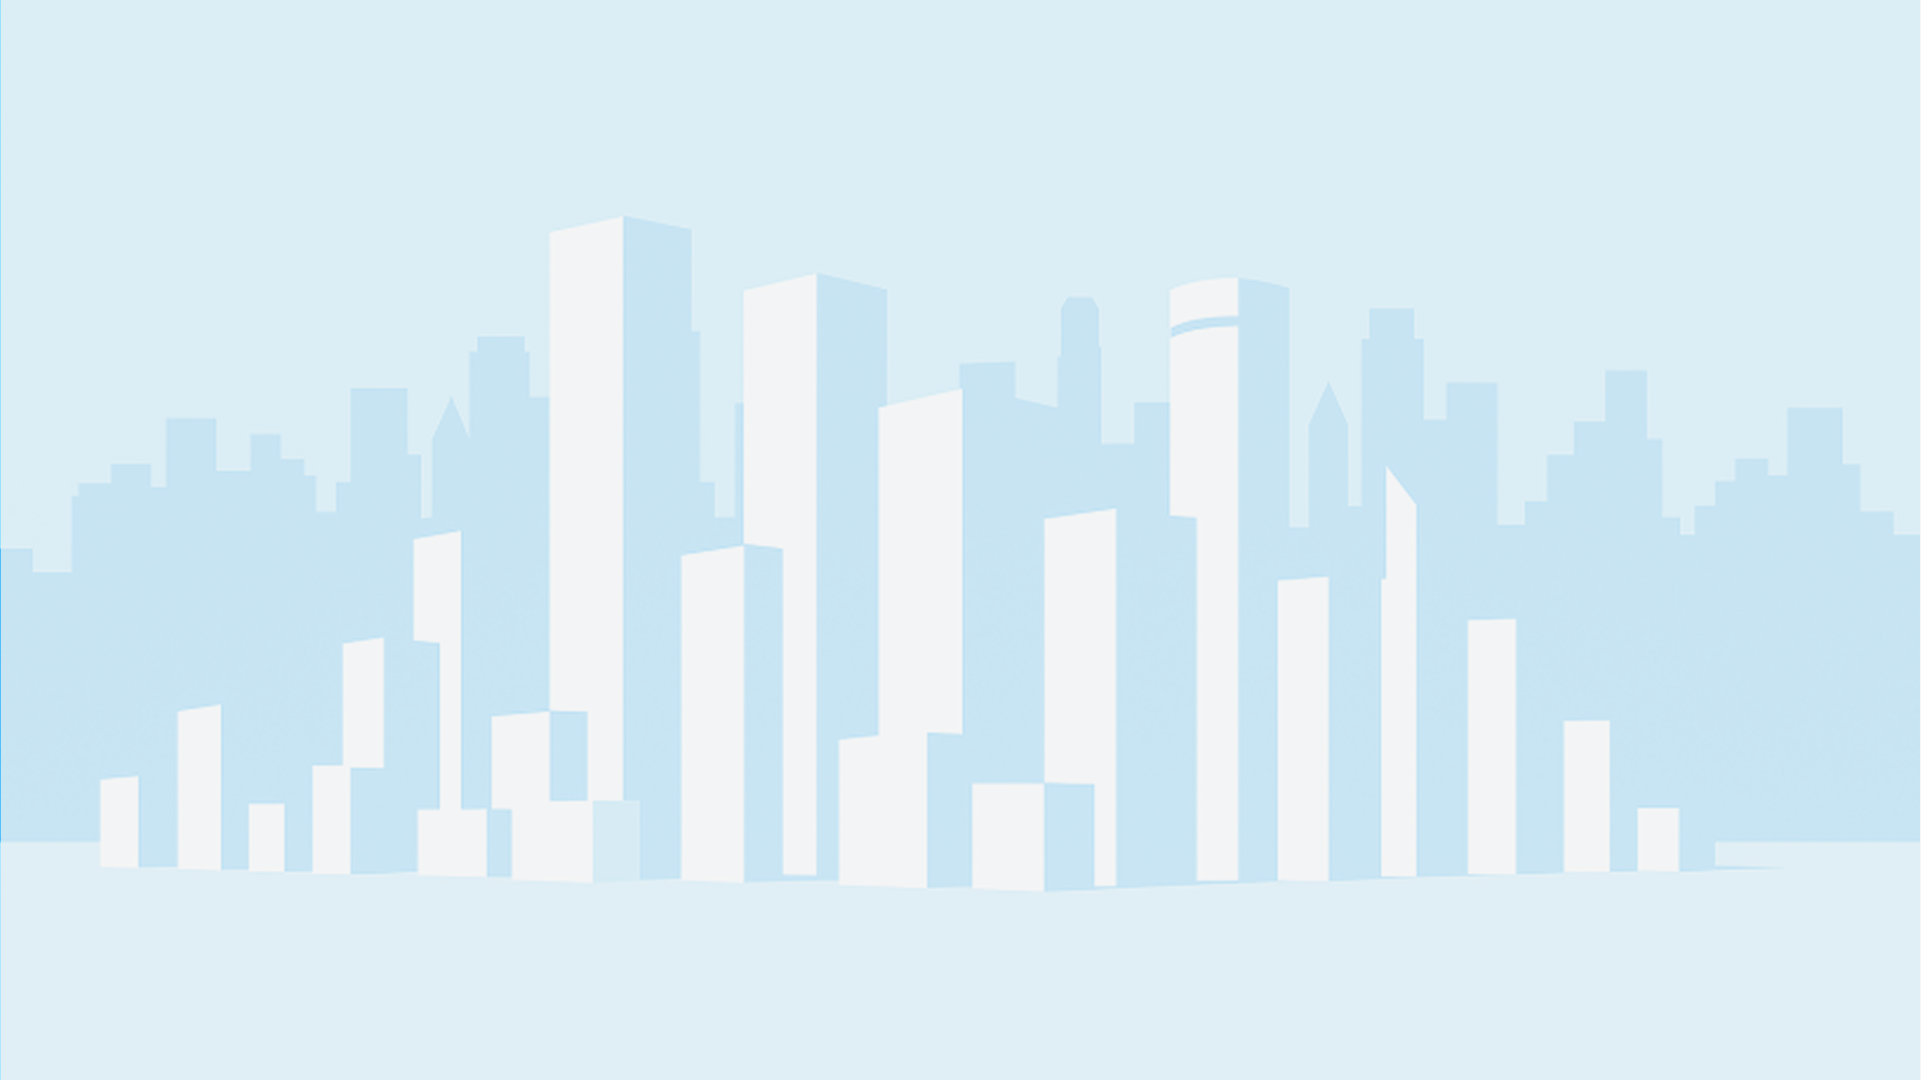
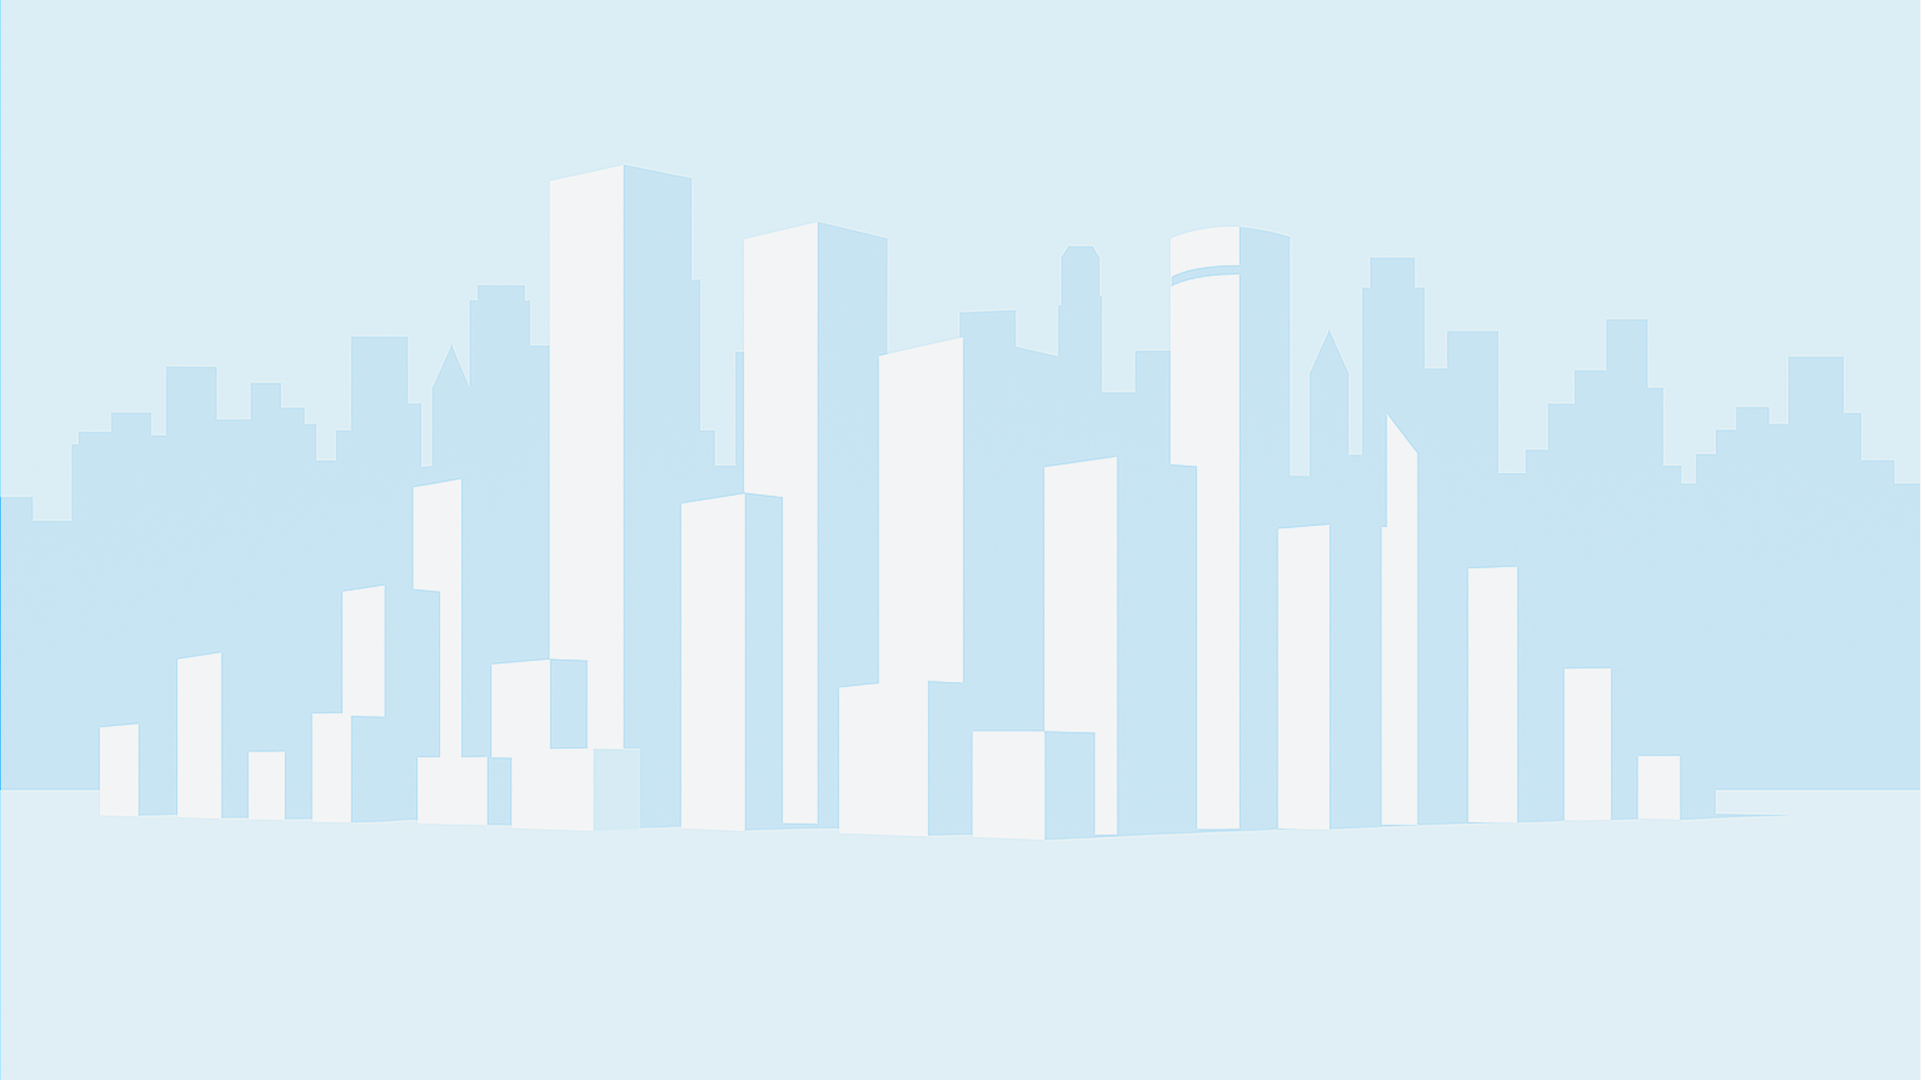
feat : TopMenu랑 배경화면 추가

diff --git a/src/components/admin/Menu.jsx b/src/components/admin/Menu.jsx
@@ -11,12 +11,12 @@ export default function Menu(){
 
     return(
         <>
-            <div className='wrap flex'>
+            <div className='wrap flex w-[450px]'>
                 {/* 메뉴박스 */}
-                <div className={`whiteBox w-[372px] h-full bg-white transition-transform duration-300
-                    ${open ? "translate-x-0" : "-translate-x-full"}`}>
+                <div className={`whiteBox w-[372px] h-full bg-white transition-transform duration-500
+                    ${open ? "translate-x-0" : "-translate-x-full"} `}>
                     <img src={logo} alt="메뉴로고" 
-                        className='w-[216px] h-[84px] translate-x-[47px]'/>
+                        className='w-[216px] h-[84px] ml-[47px]'/>
                     <div className='blueBox w-[318px] h-[720px] bg-[#E6EEF2]'>
                         {/* 콘텐츠 */}
                         <div className='content'>
@@ -54,8 +54,8 @@ export default function Menu(){
                     </div>
                 </div>
                 {/* 메뉴태그 */}
-                <div className={`tag w-[78px] h-[51px] bg-[#0888D4] flex justify-end items-center translate-y-[181px]
-                    transition-transform duration-300
+                <div className={`tag w-[78px] h-[51px] bg-[#0888D4] flex justify-end items-center mt-[60px]
+                    transition-transform duration-500
                     ${open ? "translate-x-0" : "-translate-x-[372px]"}`}
                     onClick={show}>
                     <img src={logoW} alt="메뉴태그로고" 

diff --git a/src/components/admin/TopMenu.jsx b/src/components/admin/TopMenu.jsx
@@ -1,0 +1,17 @@
+import login from '../../assets/icons/login.png';
+import alert from '../../assets/icons/alert.png';
+import alarm from '../../assets/icons/alarm.png';
+
+export default function TopMenu(){
+    return(
+        <>
+            <div 
+            className="TopMenu w-[372px] h-[68px] px-[74px] bg-[#0888D4] 
+                absolute top-0 right-0 flex items-center justify-between ">
+                    <img src={login} alt="마이페이지" className='w-[48px] h-[48px]'/>
+                    <img src={alert} alt="문제보기" className='w-[48px] h-[48px]'/>
+                    <img src={alarm} alt="알림보기" className='w-[42px] h-[48px]'/>
+            </div>
+        </>
+    );
+}

diff --git a/src/layout/AdminLayout.jsx b/src/layout/AdminLayout.jsx
@@ -1,9 +1,18 @@
 import Menu from '../components/admin/Menu';
+import TopMenu from '../components/admin/TopMenu';
+import logo from '../assets/logos/logo.png';
+import back from '../assets/imgs/background.png';
 
 export default function AdminLayout(){
     return(
-        <>
-            <Menu/>
-        </>
+        <div className='bg-center bg-cover'
+                style={{backgroundImage:`url(${back})`}}>
+            <div className='pt-[13px]'>
+                <img src={logo} alt="홈" className='logo w-[216px] h-[84px] ml-[38px]'/>
+            </div>
+                <Menu/>
+                <TopMenu/>
+            
+        </div>
     );
 }

diff --git a/src/index.css b/src/index.css
@@ -43,7 +43,10 @@ body {
 
 /* 리셋 */
 * {
-  margin: 0;
-  padding: 0;
   box-sizing: border-box;
+}
+
+body, html {
+  margin: 0 !important;
+  padding: 0 !important;
 }

diff --git a/src/App.jsx b/src/App.jsx
@@ -11,7 +11,6 @@ function App() {
   return (
     <>
       <Admin/>
-      <Button onClick={onClick}>qjxms</Button>
     </>
   );
 }
